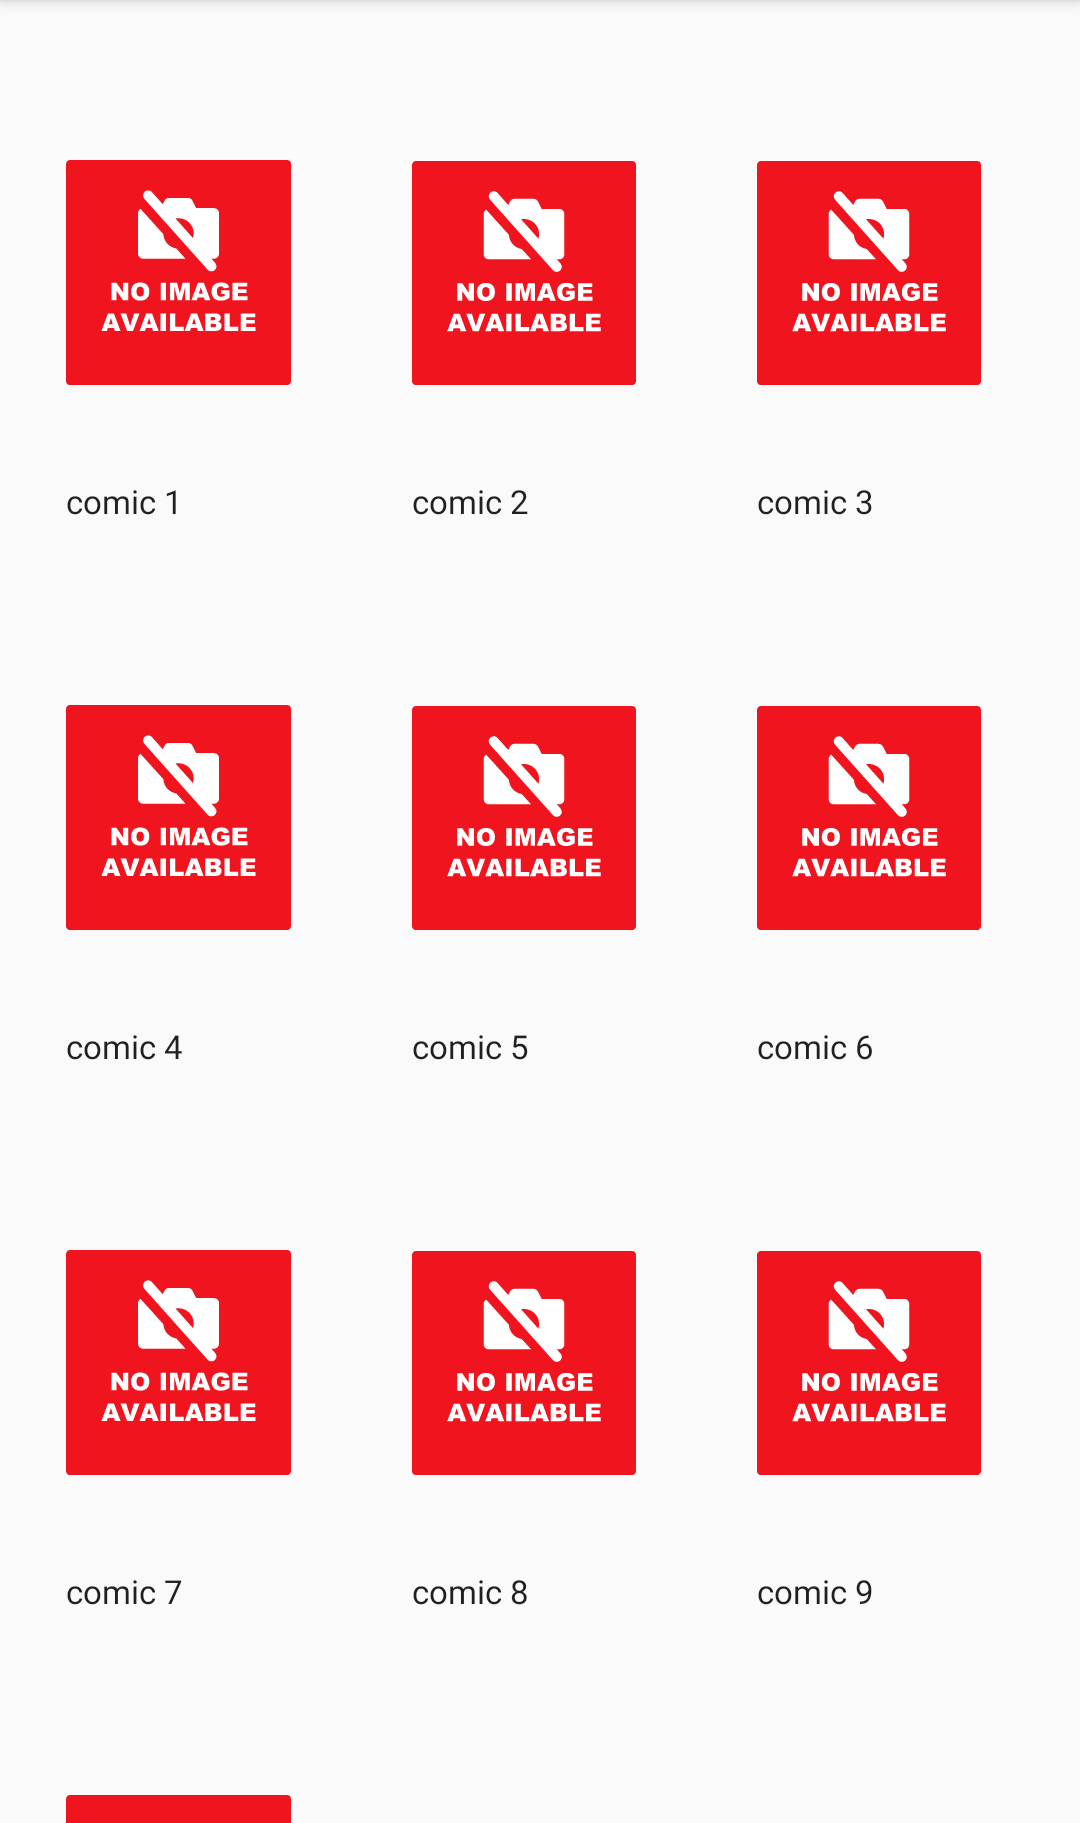
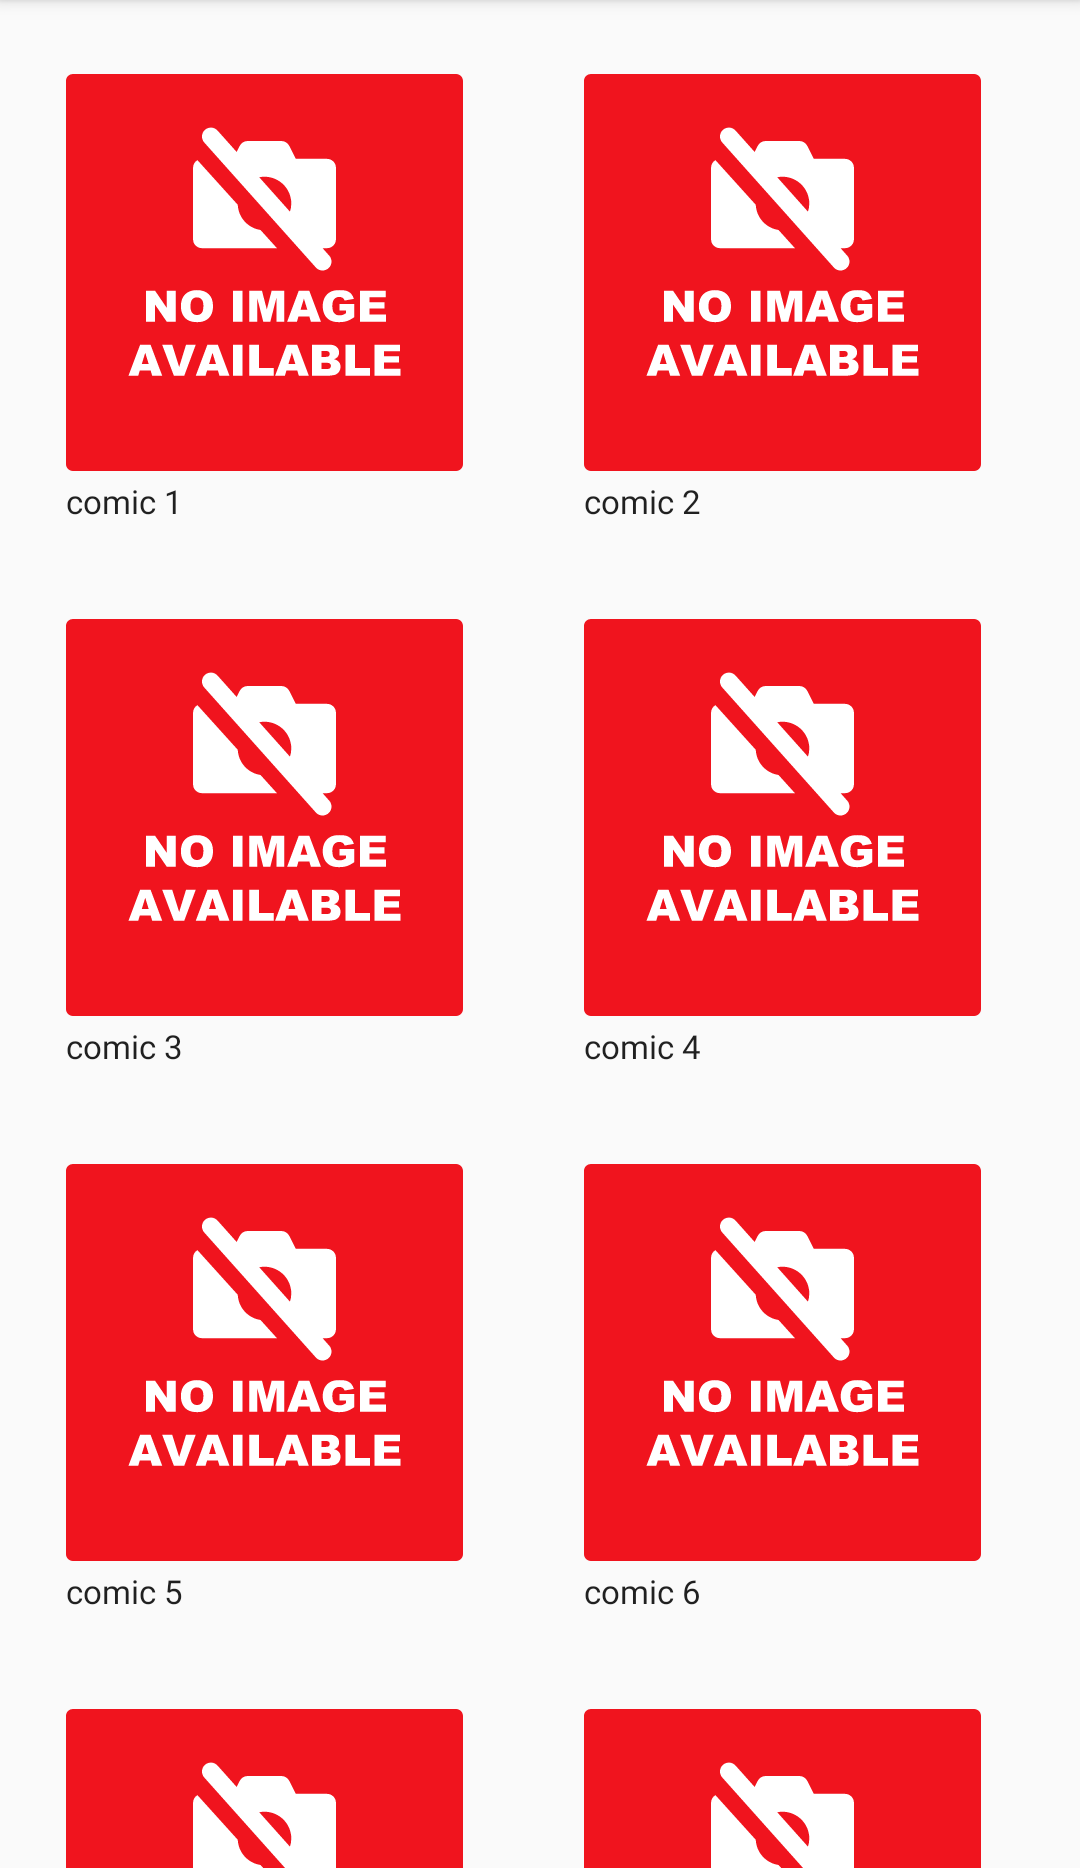
[Update] Compose to 1.2.0-beta01

diff --git a/feature-comics/src/main/java/com/rumosoft/comics/presentation/component/ComicResults.kt b/feature-comics/src/main/java/com/rumosoft/comics/presentation/component/ComicResults.kt
@@ -10,9 +10,9 @@ import androidx.compose.foundation.layout.fillMaxWidth
 import androidx.compose.foundation.layout.height
 import androidx.compose.foundation.layout.padding
 import androidx.compose.foundation.layout.width
-import androidx.compose.foundation.lazy.GridCells
-import androidx.compose.foundation.lazy.LazyVerticalGrid
-import androidx.compose.foundation.lazy.itemsIndexed
+import androidx.compose.foundation.lazy.grid.GridCells
+import androidx.compose.foundation.lazy.grid.LazyVerticalGrid
+import androidx.compose.foundation.lazy.grid.itemsIndexed
 import androidx.compose.material.CircularProgressIndicator
 import androidx.compose.material.Text
 import androidx.compose.runtime.Composable
@@ -42,7 +42,7 @@ fun ComicResults(
 ) {
     val lastIndex = comics.lastIndex
     LazyVerticalGrid(
-        cells = GridCells.Adaptive(130.dp),
+        columns = GridCells.Adaptive(130.dp),
         contentPadding = PaddingValues(MarvelComposeTheme.paddings.smallPadding),
         modifier = modifier.fillMaxWidth(),
     ) {

diff --git a/feature-characters/src/main/java/com/rumosoft/characters/presentation/screen/DetailsScreen.kt b/feature-characters/src/main/java/com/rumosoft/characters/presentation/screen/DetailsScreen.kt
@@ -1,10 +1,12 @@
 package com.rumosoft.characters.presentation.screen
 
 import android.content.res.Configuration.UI_MODE_NIGHT_YES
+import androidx.compose.foundation.layout.padding
 import androidx.compose.material.Scaffold
 import androidx.compose.runtime.Composable
 import androidx.compose.runtime.collectAsState
 import androidx.compose.runtime.getValue
+import androidx.compose.ui.Modifier
 import androidx.compose.ui.res.painterResource
 import androidx.compose.ui.res.stringResource
 import androidx.compose.ui.tooling.preview.Devices
@@ -41,8 +43,11 @@ private fun DetailsScreenContent(
                 leftIconPressed = onBackPressed,
             )
         }
-    ) {
-        detailsState.BuildUI(onComicSelected)
+    ) { padding ->
+        detailsState.BuildUI(
+            modifier = Modifier.padding(padding),
+            onComicSelected = onComicSelected
+        )
     }
 }
 

diff --git a/feature-comics/src/main/java/com/rumosoft/comics/presentation/screen/ComicDetailsScreen.kt b/feature-comics/src/main/java/com/rumosoft/comics/presentation/screen/ComicDetailsScreen.kt
@@ -2,10 +2,12 @@ package com.rumosoft.comics.presentation.screen
 
 import android.content.res.Configuration
 import androidx.compose.foundation.ExperimentalFoundationApi
+import androidx.compose.foundation.layout.padding
 import androidx.compose.material.Scaffold
 import androidx.compose.runtime.Composable
 import androidx.compose.runtime.collectAsState
 import androidx.compose.runtime.getValue
+import androidx.compose.ui.Modifier
 import androidx.compose.ui.res.painterResource
 import androidx.compose.ui.res.stringResource
 import androidx.compose.ui.tooling.preview.Preview
@@ -41,8 +43,10 @@ fun ComicDetailsScreenContent(
                 leftIconPressed = onBackPressed,
             )
         }
-    ) {
-        screenState.BuildUI()
+    ) { padding ->
+        screenState.BuildUI(
+            modifier = Modifier.padding(padding)
+        )
     }
 }
 

diff --git a/feature-characters/src/main/java/com/rumosoft/characters/presentation/screen/state/DetailsStateBuildUI.kt b/feature-characters/src/main/java/com/rumosoft/characters/presentation/screen/state/DetailsStateBuildUI.kt
@@ -18,10 +18,17 @@ import com.rumosoft.components.presentation.component.CustomLoading
 import com.rumosoft.components.presentation.theme.MarvelComposeTheme
 
 @Composable
-fun DetailsState.BuildUI(onComicSelected: (Int) -> Unit) {
+fun DetailsState.BuildUI(
+    modifier: Modifier = Modifier,
+    onComicSelected: (Int) -> Unit
+) {
     when (this) {
         is Loading -> BuildLoading()
-        is Success -> HeroDetails(character, onComicSelected)
+        is Success -> HeroDetails(
+            character = character,
+            modifier = modifier,
+            onComicSelected = onComicSelected
+        )
     }
 }
 

diff --git a/feature-characters/src/main/java/com/rumosoft/characters/presentation/component/HeroDetails.kt b/feature-characters/src/main/java/com/rumosoft/characters/presentation/component/HeroDetails.kt
@@ -42,10 +42,14 @@ import com.rumosoft.components.presentation.theme.MarvelComposeTheme
 import timber.log.Timber
 
 @Composable
-fun HeroDetails(character: Character, onComicSelected: (Int) -> Unit = {}) {
+fun HeroDetails(
+    character: Character,
+    modifier: Modifier = Modifier,
+    onComicSelected: (Int) -> Unit = {}
+) {
     val scrollState = rememberScrollState()
     Column(
-        modifier = Modifier
+        modifier = modifier
             .fillMaxWidth()
             .verticalScroll(scrollState)
             .testTag(HeroListSuccessResult)

diff --git a/feature-comics/src/main/java/com/rumosoft/comics/presentation/screen/state/ComicDetailsStateBuildUI.kt b/feature-comics/src/main/java/com/rumosoft/comics/presentation/screen/state/ComicDetailsStateBuildUI.kt
@@ -24,11 +24,13 @@ import com.rumosoft.components.presentation.component.ErrorMessage
 import com.rumosoft.components.presentation.theme.MarvelComposeTheme
 
 @Composable
-fun ComicDetailsState.BuildUI() {
+fun ComicDetailsState.BuildUI(
+    modifier: Modifier = Modifier
+) {
     when (this) {
         is Loading -> BuildLoading()
         is Error -> BuildError()
-        is Success -> ComicDetails(comic)
+        is Success -> ComicDetails(comic, modifier)
     }
 }
 

diff --git a/feature-comics/src/main/java/com/rumosoft/comics/presentation/component/ComicDetails.kt b/feature-comics/src/main/java/com/rumosoft/comics/presentation/component/ComicDetails.kt
@@ -16,8 +16,11 @@ import com.rumosoft.components.presentation.component.MarvelImage
 import com.rumosoft.components.presentation.theme.MarvelComposeTheme
 
 @Composable
-fun ComicDetails(comic: Comic) {
-    LazyColumn {
+fun ComicDetails(
+    comic: Comic,
+    modifier: Modifier = Modifier
+) {
+    LazyColumn(modifier = modifier) {
         item {
             comic.thumbnail?.let {
                 MarvelImage(
